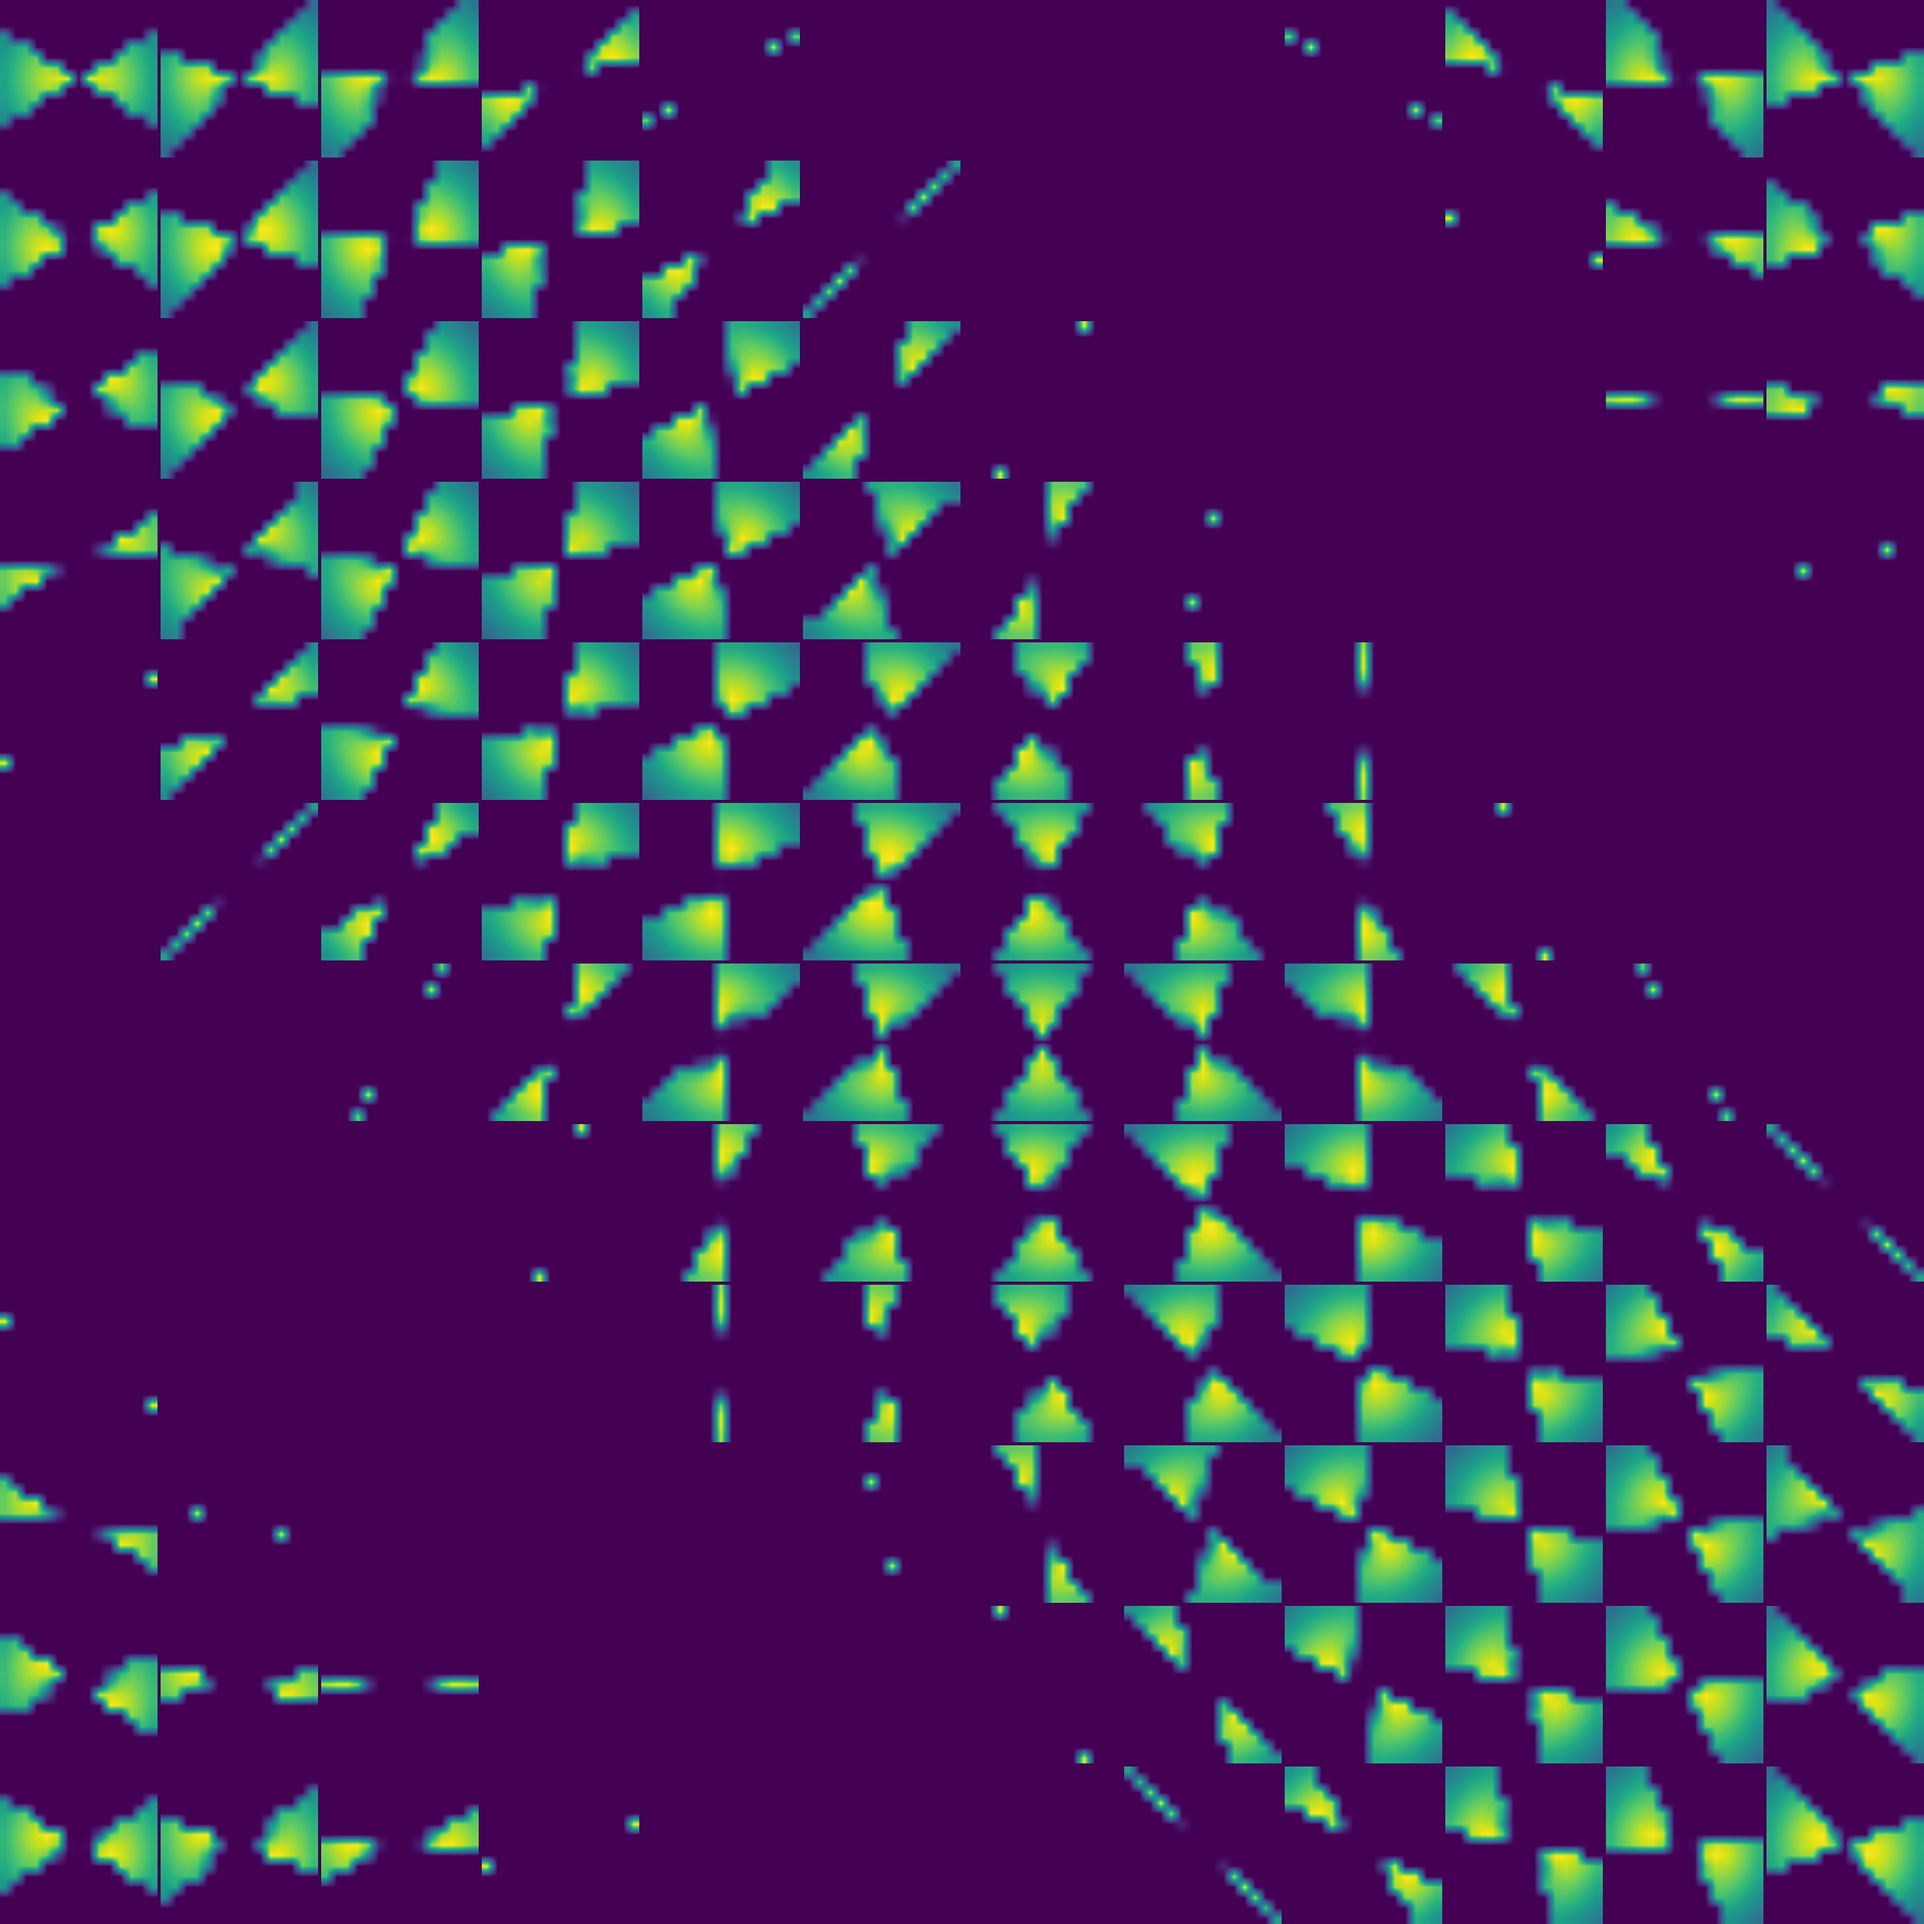
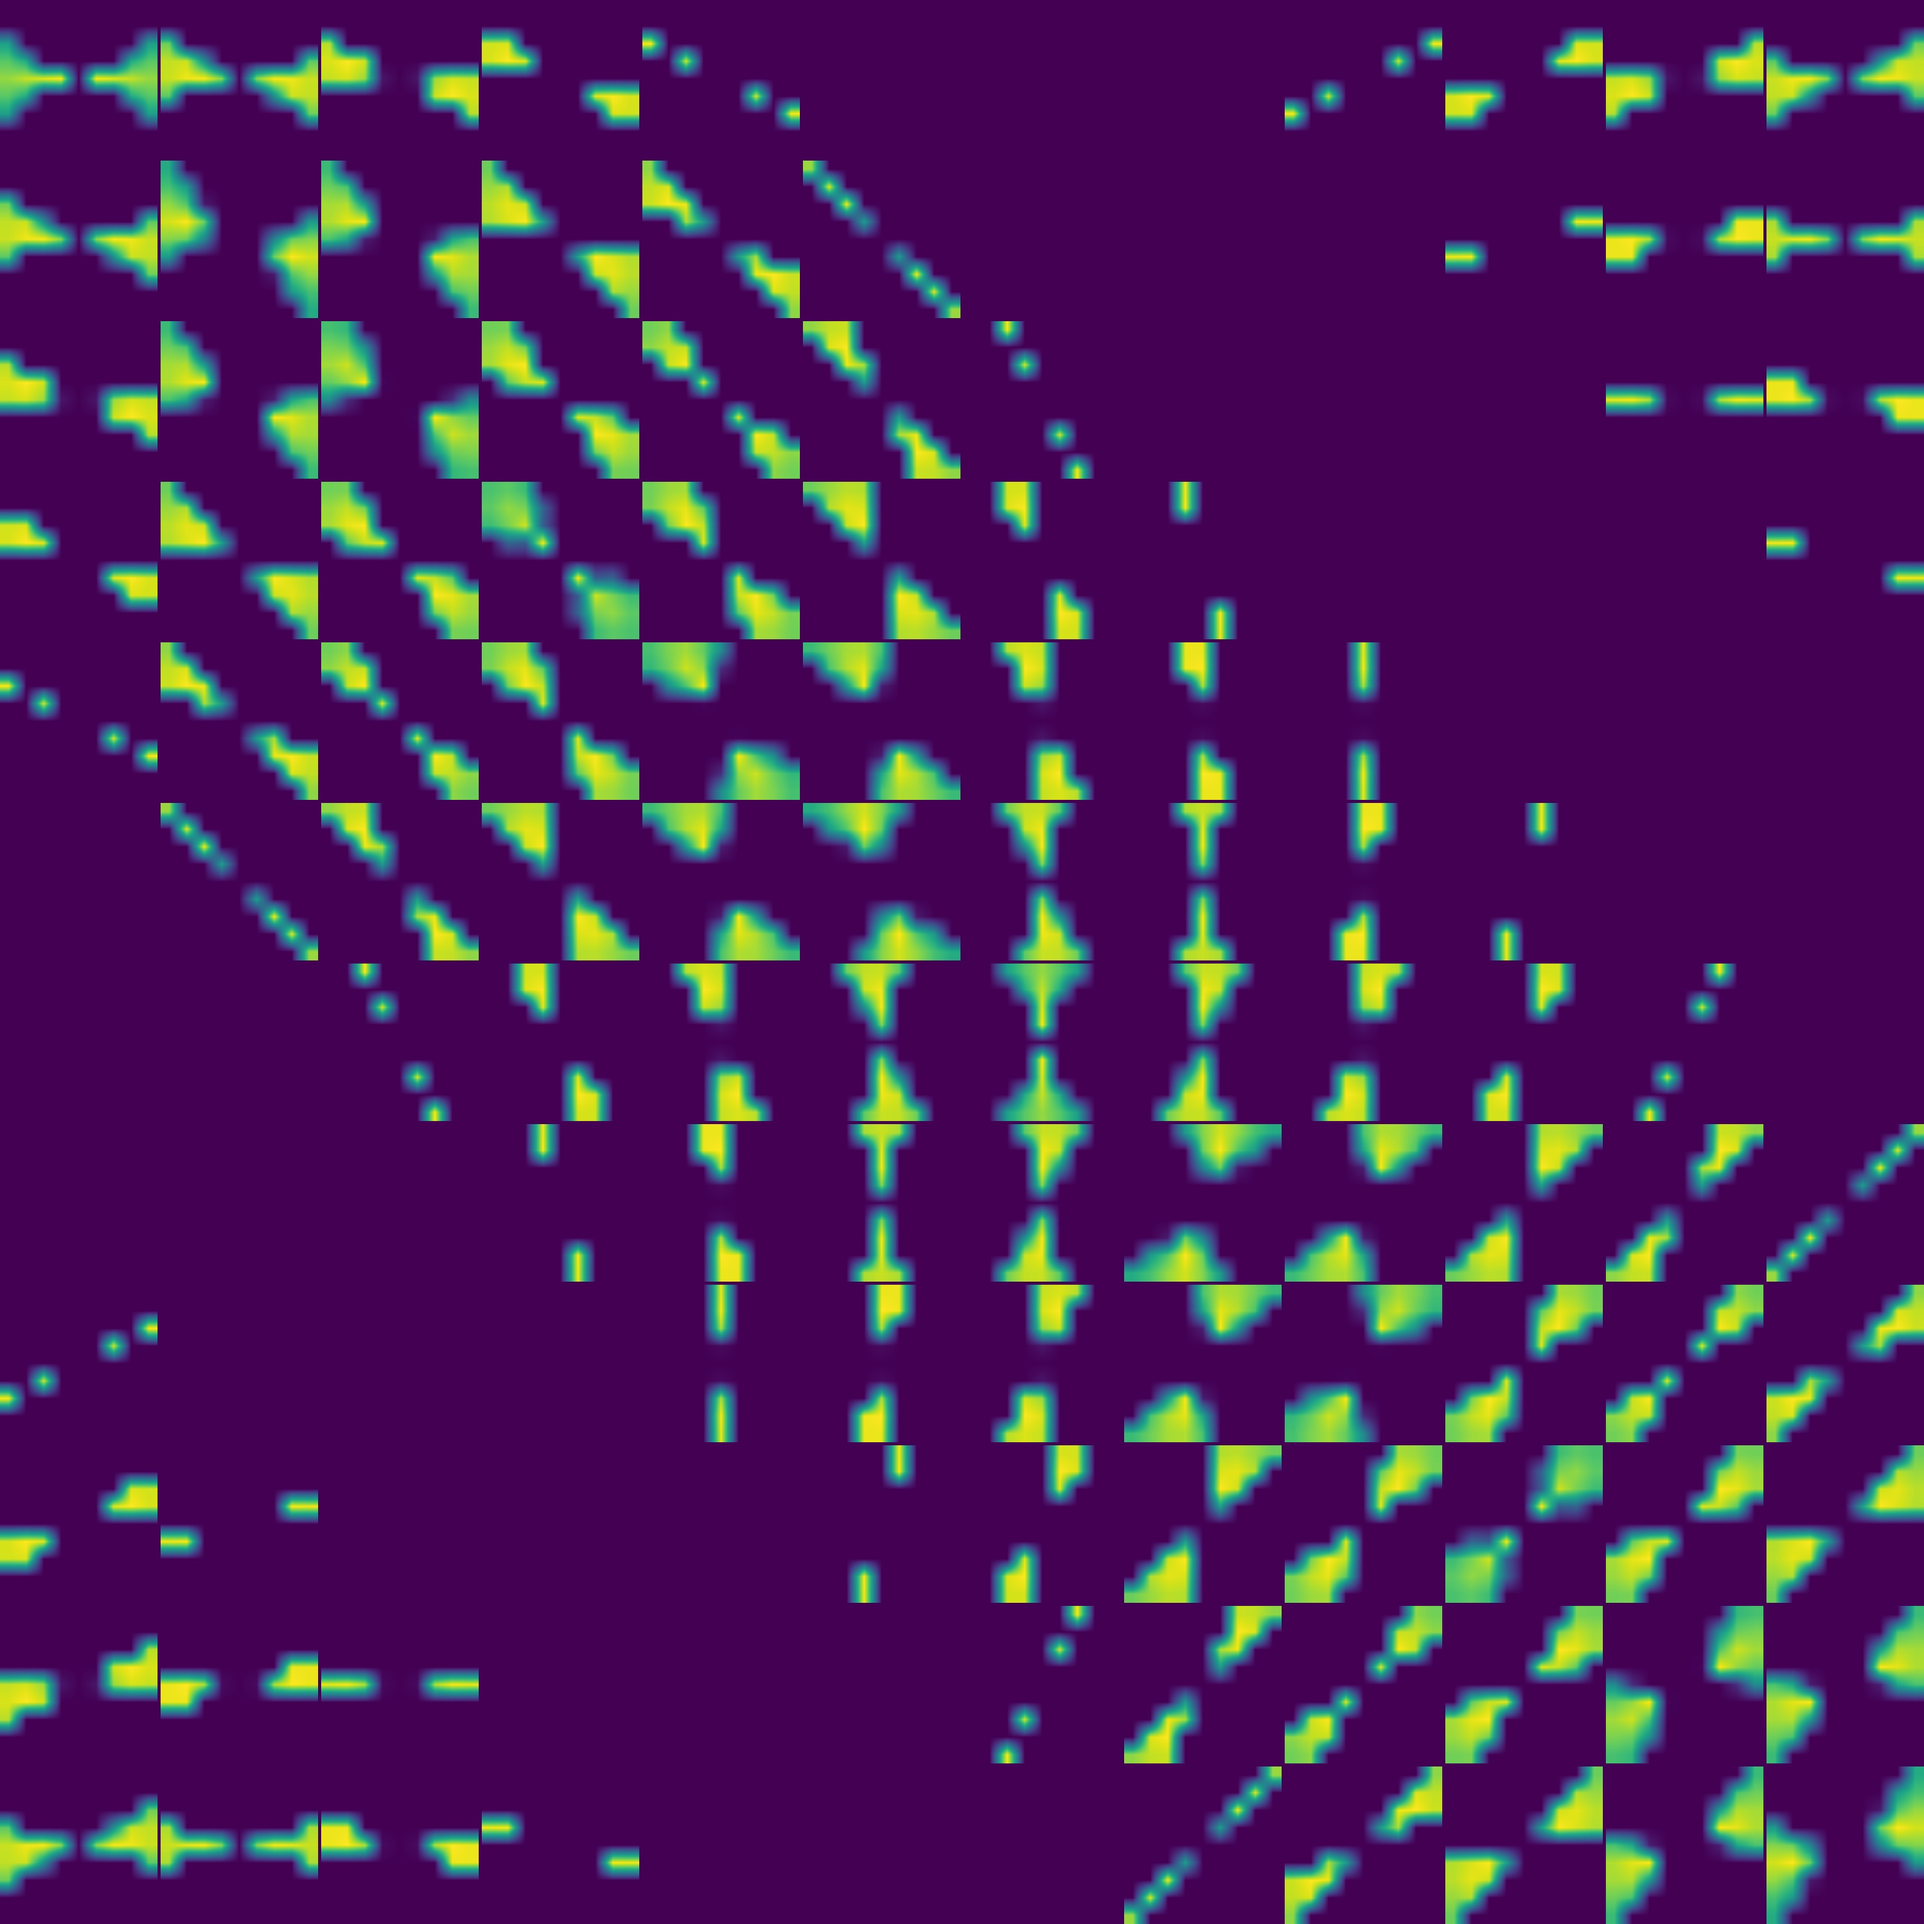
updated kernel images

diff --git a/bvs/layers/BotUpSaliency.py b/bvs/layers/BotUpSaliency.py
@@ -229,9 +229,6 @@ class BotUpSaliency(tf.keras.layers.Layer):
                     # psi_kernel[:, :, th_p, th] = self._psi(dth)
 
         if self.verbose >= 2:
-            print("min max psi", np.min(psi_kernel), np.max(psi_kernel))
-            print("shape psi_kernel", np.shape(psi_kernel))
-            print(psi_kernel[0,0])
             self._save_multi_frame_from_multi_channel(psi_kernel, "bvs/video/PsiBotUp_filter.jpeg")
 
         return psi_kernel

diff --git a/tests/t11_test_BotUp_saliency_layer.py b/tests/t11_test_BotUp_saliency_layer.py
@@ -96,7 +96,7 @@ bu_saliency = BotUpSaliency((9, 9),
                             K=n_rot,
                             steps=steps,
                             epsilon=0.1,
-                            verbose=0)
+                            verbose=2)
 
 x = bu_saliency(x)
 
